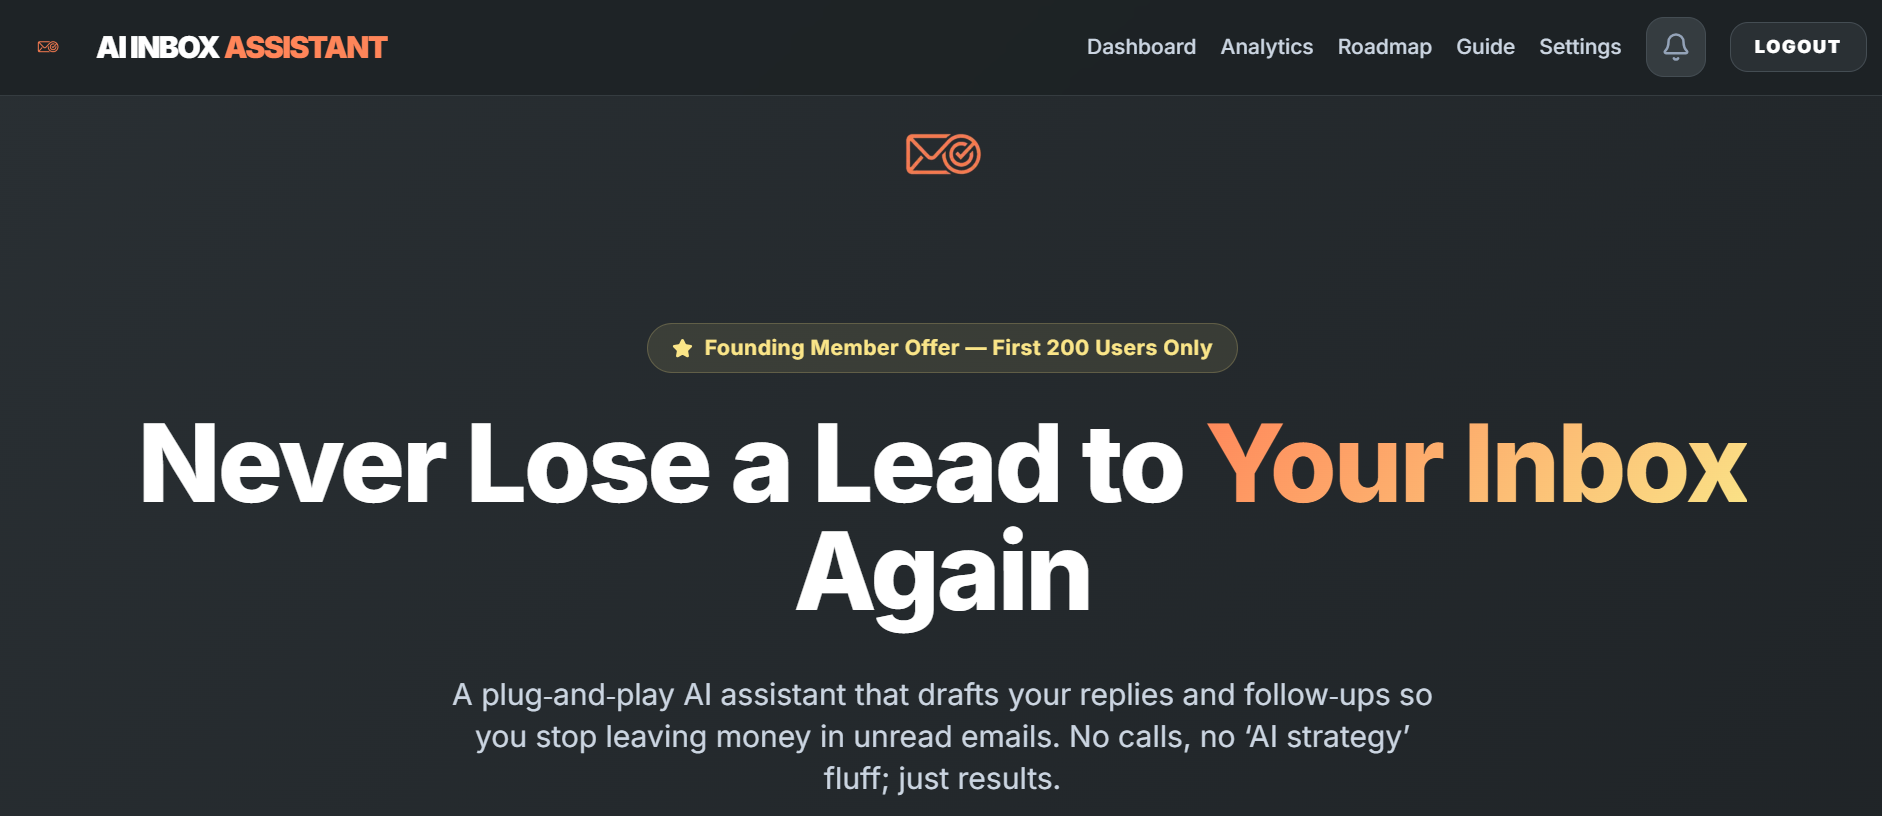
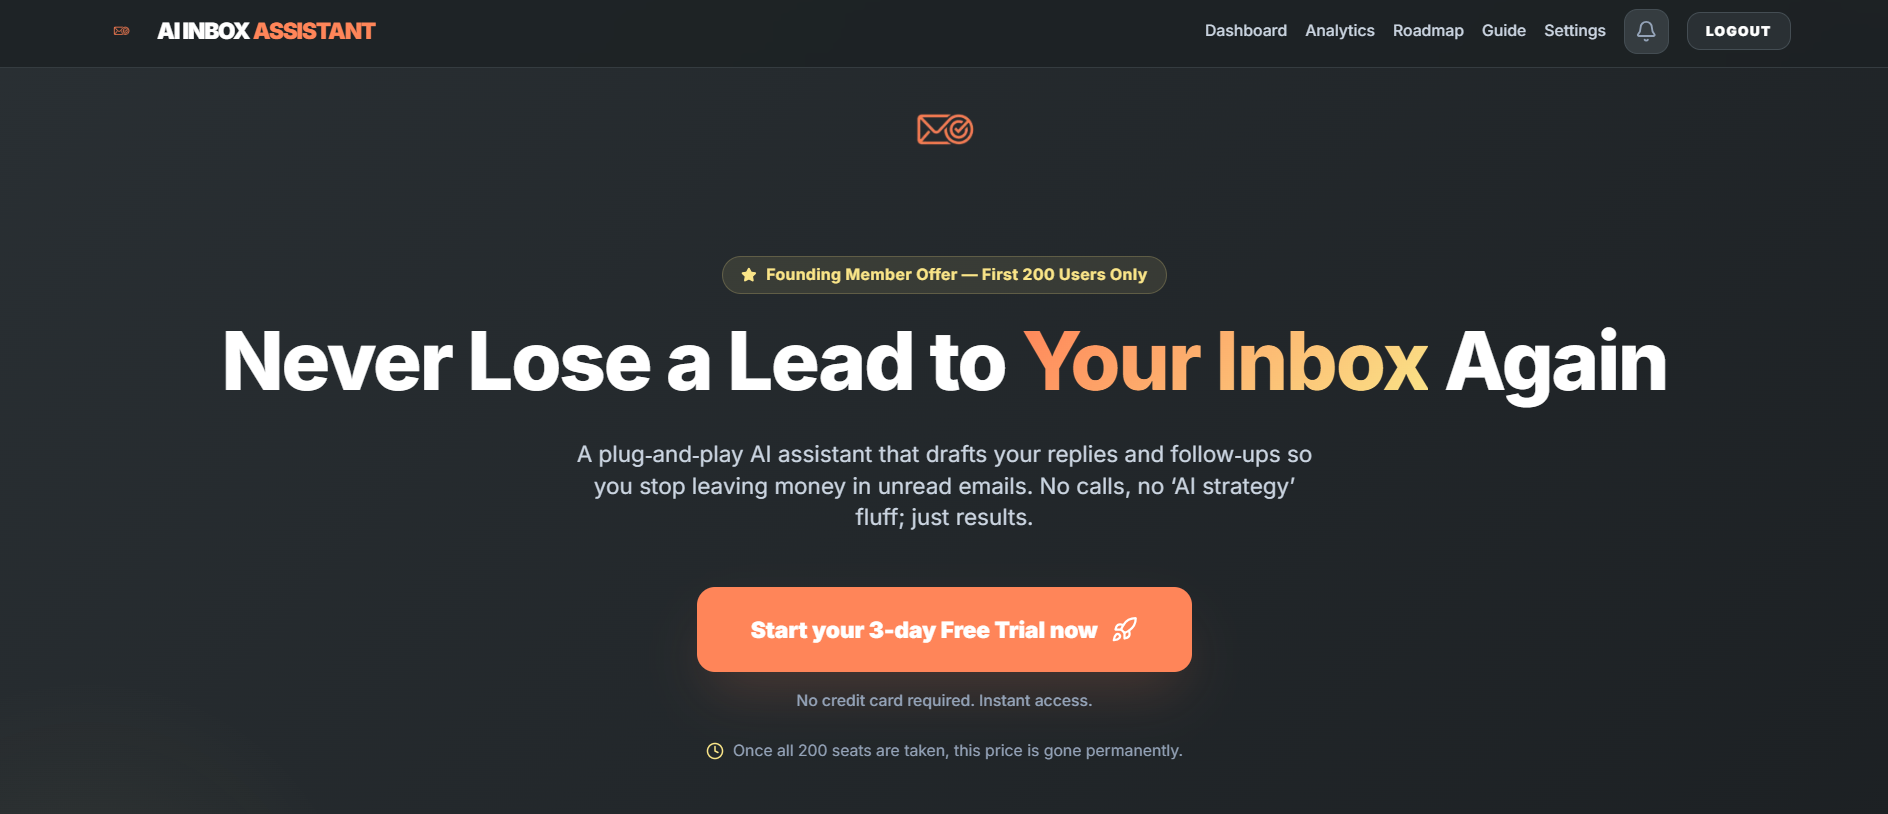
feat: Add a new setup guide page, implement a 3-day free trial engine, and enhance mobile responsiveness across the application.

diff --git a/app/guide/page.tsx b/app/guide/page.tsx
@@ -46,16 +46,16 @@ const StepCard = ({ number, title, subtitle, icon: Icon, children, isLast = fals
             </div>
         </div>
 
-        <div className="bg-brand-dark/40 backdrop-blur-md border border-brand-card rounded-[1.5rem] md:rounded-[2.5rem] p-5 md:p-12 hover:border-brand-orange/20 transition-all duration-500 relative overflow-hidden group/card shadow-[0_20px_50px_rgba(0,0,0,0.3)]">
+        <div className="bg-brand-dark/60 backdrop-blur-xl border border-brand-card rounded-[1.5rem] md:rounded-[2.5rem] p-5 md:p-12 hover:border-brand-orange/20 transition-all duration-500 relative overflow-hidden group/card shadow-[0_20px_50px_rgba(0,0,0,0.4)]">
             <div className="absolute top-0 right-0 w-64 h-64 bg-brand-orange/5 blur-[80px] -mr-32 -mt-32 rounded-full group-hover/card:bg-brand-orange/10 transition-colors" />
 
             <div className="relative z-10">
                 <div className="flex flex-col md:flex-row md:items-center gap-4 mb-6 md:mb-8 text-left">
                     <div>
-                        <h3 className="text-2xl md:text-4xl font-black text-white tracking-tight mb-2">
+                        <h3 className="text-3xl md:text-4xl font-black text-white tracking-tight mb-2">
                             {title}
                         </h3>
-                        <p className="text-brand-yellow/80 font-bold uppercase tracking-widest text-[10px] md:text-xs">
+                        <p className="text-brand-yellow font-bold uppercase tracking-widest text-[10px] md:text-xs">
                             {subtitle}
                         </p>
                     </div>
@@ -174,7 +174,11 @@ export default function GuidePage() {
                     </div>
                 </StepCard>
 
-                {/* Step 2: Connection */}
+                {/* 
+                  * Step 2: Connection 
+                  * MOBILE COMPLIANCE GUARD: This section is specifically optimized for mobile devices (up to 1024px).
+                  * Do not alter the flex-col/row layouts or padding without verification.
+                  */}
                 <StepCard
                     number="02"
                     title="Connect Your Inbox"
@@ -188,13 +192,13 @@ export default function GuidePage() {
                         <Instruction step={1} text="Go to Settings > Lead Ingestion." />
                         <Instruction step={2} text="Copy your unique Secret Webhook URL." />
                         <Instruction step={3} text="Paste this link into your email tool (Zapier or Postmark)." />
-                        <div className="p-4 md:p-6 bg-brand-dark/80 rounded-2xl md:rounded-3xl border border-brand-border flex flex-col md:flex-row items-start md:items-center justify-between gap-4 group cursor-pointer hover:border-brand-yellow/30 transition-all">
-                            <div className="flex flex-col w-full overflow-hidden">
-                                <span className="text-[10px] font-black tracking-widest text-[#64748B] uppercase mb-1">Your Secret Link</span>
-                                <code className="text-brand-yellow text-[10px] md:text-sm font-mono truncate w-full">https://api.assistant.com/v1/inbox-ingest...</code>
+                        <div className="p-4 md:p-6 bg-brand-dark/80 rounded-2xl md:rounded-3xl border border-brand-border flex flex-col md:flex-row items-center md:items-center justify-between gap-6 group cursor-pointer hover:border-brand-yellow/30 transition-all shadow-xl">
+                            <div className="flex flex-col w-full overflow-hidden text-center md:text-left">
+                                <span className="text-[10px] font-black tracking-widest text-brand-yellow/60 uppercase mb-2">Your Secret Link</span>
+                                <code className="text-brand-yellow text-[10px] md:text-sm font-mono truncate w-full mb-2 md:mb-0">https://api.assistant.com/v1/inbox-ingest...</code>
                             </div>
-                            <div className="w-full md:w-auto flex items-center justify-center gap-2 bg-brand-yellow/10 border border-brand-yellow/20 px-4 py-2.5 md:py-2 rounded-xl text-brand-yellow text-[10px] md:text-xs font-black uppercase tracking-widest group-hover:bg-brand-yellow group-hover:text-brand-darker transition-all">
-                                <Copy className="w-3 h-3" />
+                            <div className="w-full md:w-auto flex items-center justify-center gap-2 bg-brand-yellow/10 border border-brand-yellow/20 px-6 py-3 md:py-2.5 rounded-xl text-brand-yellow text-[10px] md:text-xs font-black uppercase tracking-widest group-hover:bg-brand-yellow group-hover:text-brand-darker transition-all hover:scale-[1.02] active:scale-[0.98]">
+                                <Copy className="w-3.5 h-3.5" />
                                 Copy
                             </div>
                         </div>

diff --git a/Dev Log.md b/Dev Log.md
@@ -238,12 +238,24 @@ The primary goal is to **reclaim time**. By automating the cognitive load of dra
 
 ---
 
+## 📱 Phase 16: Growth & Mobile Optimization
+- **Full Mobile Responsiveness**:
+    - Applied comprehensive UI fixes across all pages for mobile compatibility (1024px and below).
+    - Optimized "Setup Guide" for mobile users with enhanced card layouts and touch targets.
+- **3-Day Free Trial Engine**:
+    - Implemented a "growth-first" onboarding flow allowing new users to try the product for 3 days without early payment.
+    - **Database Migration**: Added `trial_ends_at` and `is_trial` to the `profiles` table.
+    - **Trial Lockout**: Implemented paywall logic that restricts dashboard access once the trial expires, while still allowing background lead processing.
+    - **Hero CTA**: Updated landing page to prioritize the "Start your 3-day Free Trial" entry point.
+- **Production Hardening**:
+    - Resolved `favicon.ico` path conflicts between `/app` and `/public` directories.
+    - Fixed build-time linting errors (unescaped JSX entities) to ensure smooth Vercel deployments.
+
+---
+
 ## 🗓 Next Steps
-- [x] ~~**Multiple Draft Options**: Formal / Casual / Short variants, parallel generation, 3-tab UI.~~
-- [x] ~~**Launch Readiness Audit**: Comprehensive audit completed and passed.~~
-- [x] ~~**Dark Theme Polish**: Premium dark mode implemented across all pages.~~
-- [x] ~~**Interactive Guide**: Togglable in-app tutorial and dedicated /guide page.~~
-- [ ] **Run DB Migration**: Execute `supabase/migrations/add_tone_variant.sql` in the Supabase SQL Editor (Verify live).
+- [x] ~~**Run DB Migration**: Execute `supabase/migrations/add_tone_variant.sql` in the Supabase SQL Editor.~~
+- [ ] **Run Free Trial Migration**: Execute `supabase/migrations/20260227_add_free_trial.sql` in the Supabase SQL Editor.
 - [ ] **Lead Stages**: Add pipeline stages (New to Contacted to Negotiating to Closed) to the dashboard.
 - [ ] **Production AI Model**: Confirm OpenAI API key is live and producing real drafts.
 - [ ] **Domain Verification**: Verify custom domain on Resend (Settings → Email Domain tab).
